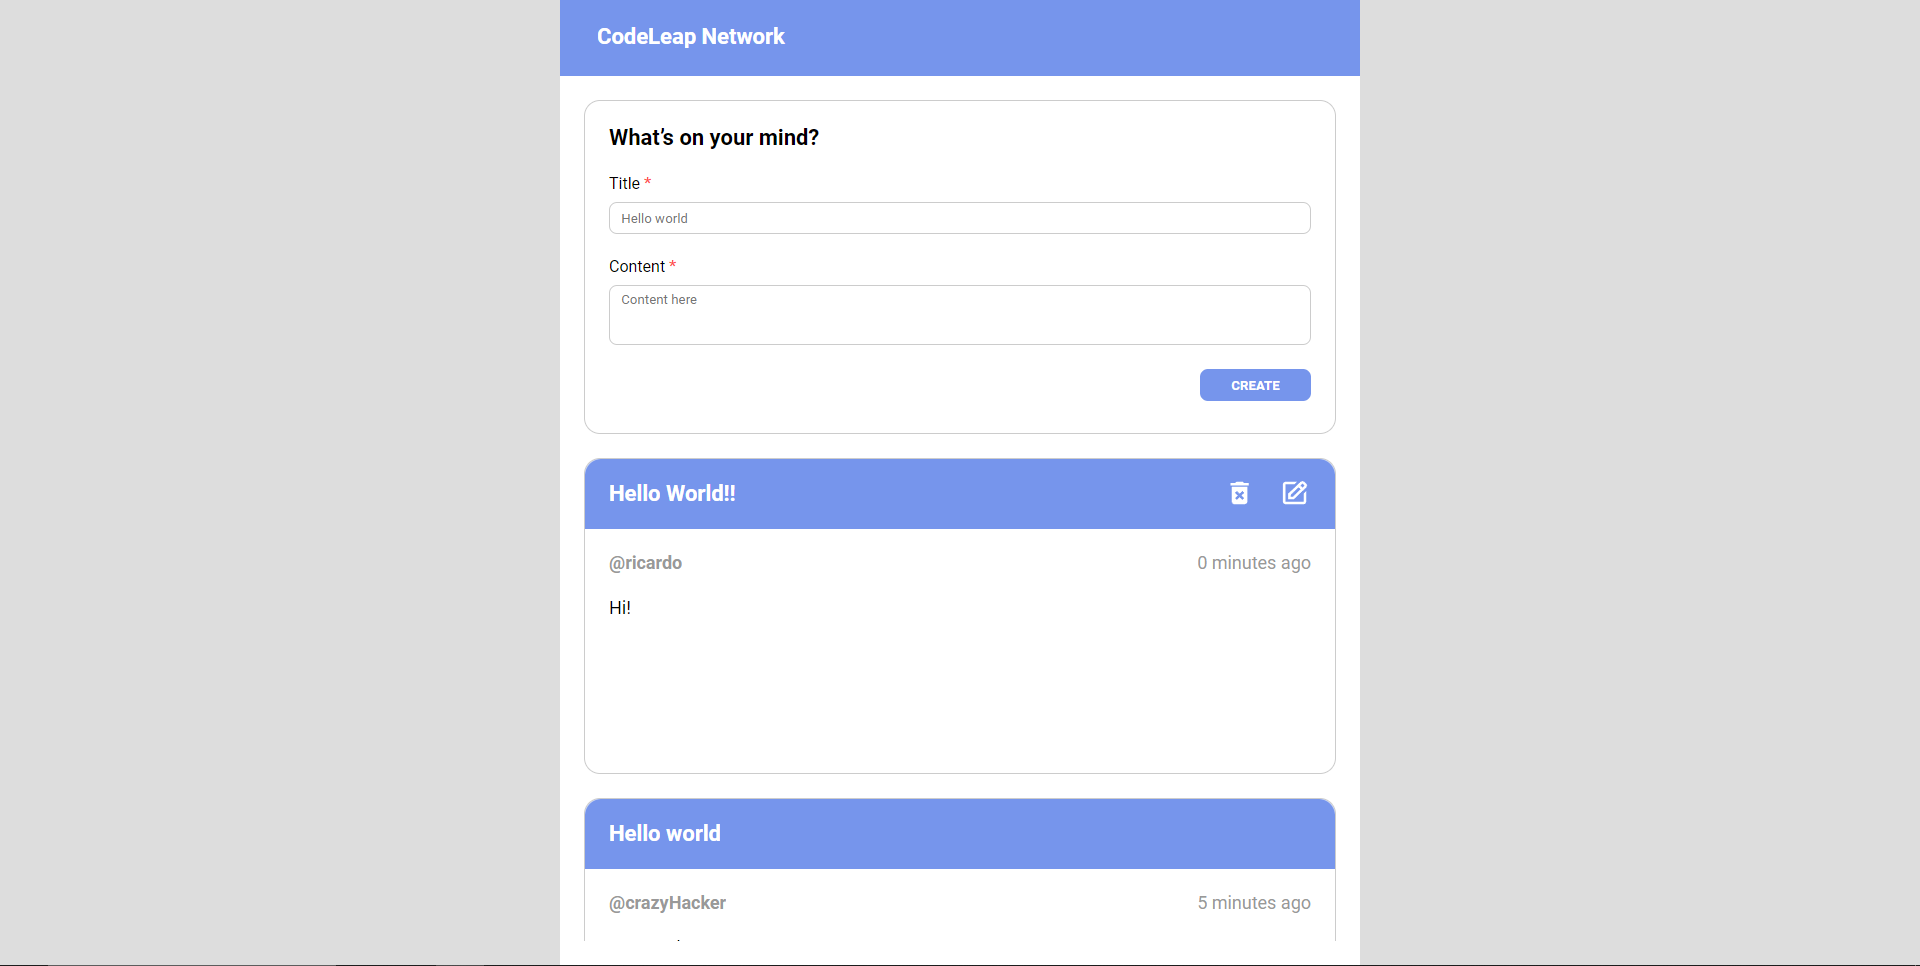
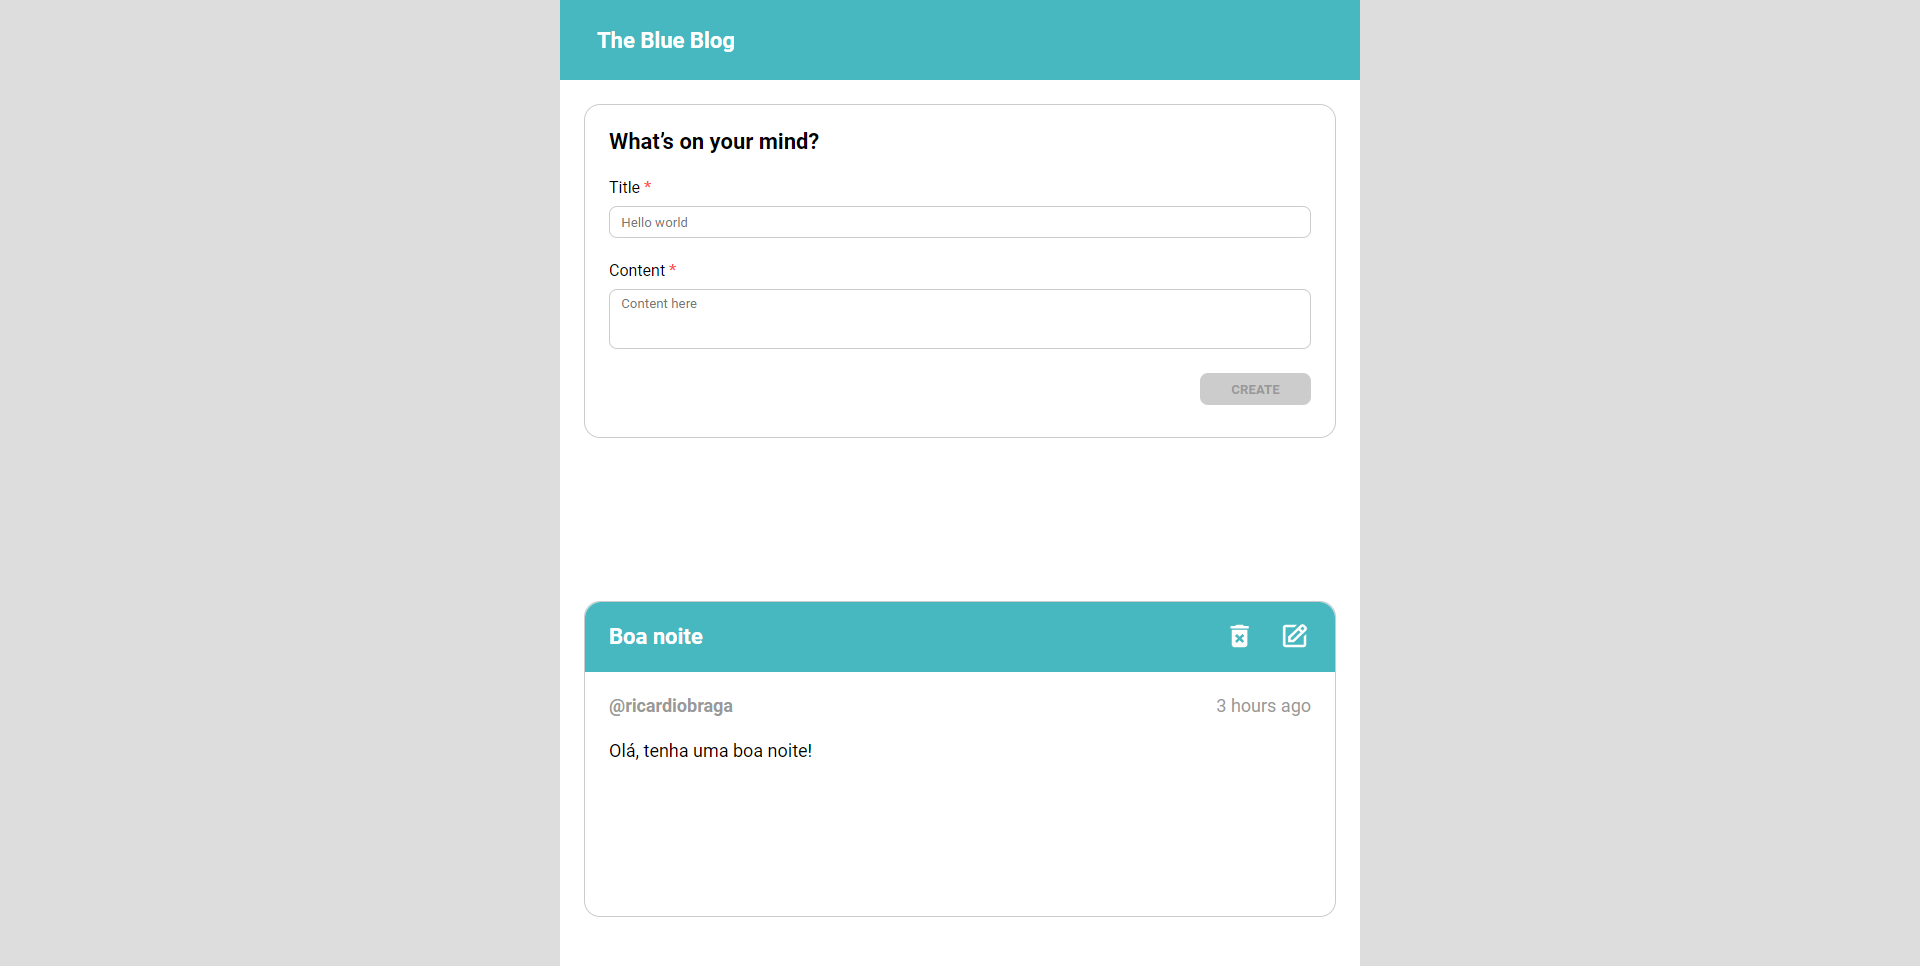
modificacao do README

diff --git a/README.md b/README.md
@@ -1,12 +1,12 @@
-# CODELEAP TEST CRUD
-[![NPM](https://img.shields.io/npm/l/react)](https://github.com/ricardiobraga/codeleap-frontend-test/blob/main/LICENCE) 
+# The Blu Blog CRUD
+[![NPM](https://img.shields.io/npm/l/react)](https://github.com/ricardiobraga/blueblog-frontend/blob/main/LICENSE.md) 
 
-# ABOUT
+# SOBRE
 
-[https://vercel.com/ricardiobraga/codeleap-test](https://codeleap-test-psi.vercel.app/)
+[https://blueblog-frontend.vercel.app/](https://blueblog-frontend.vercel.app/)
 
-This is a project developed as a test for a junior frontend developer at the company Codeleap.
-The proposal is a blog that lists posts and allows the creation, editing, and deletion of content made by the user who is logged in.
+Esse projeto inicialmente foi feito para teste de uma vaga de frontend. A partir de um layout feito no Figma e uma API que foram fornecidos pela empresa eu desenvolvi esta aplicação.
+Como tenho focado meus estudos em Java e Springboot desde o começo de 2023, decidi aproveitar esse frontend e recriar o backend que foi fornecido pela empresa.
 
 ## Layout mobile
 ![Mobile1](https://github.com/ricardiobraga/codeleap-frontend-test/blob/main/src/public/assets/layout-mobile-blog.png)  ![Mobile2](https://github.com/ricardiobraga/codeleap-frontend-test/blob/main/src/public/assets/layout-mobile-home.png)
